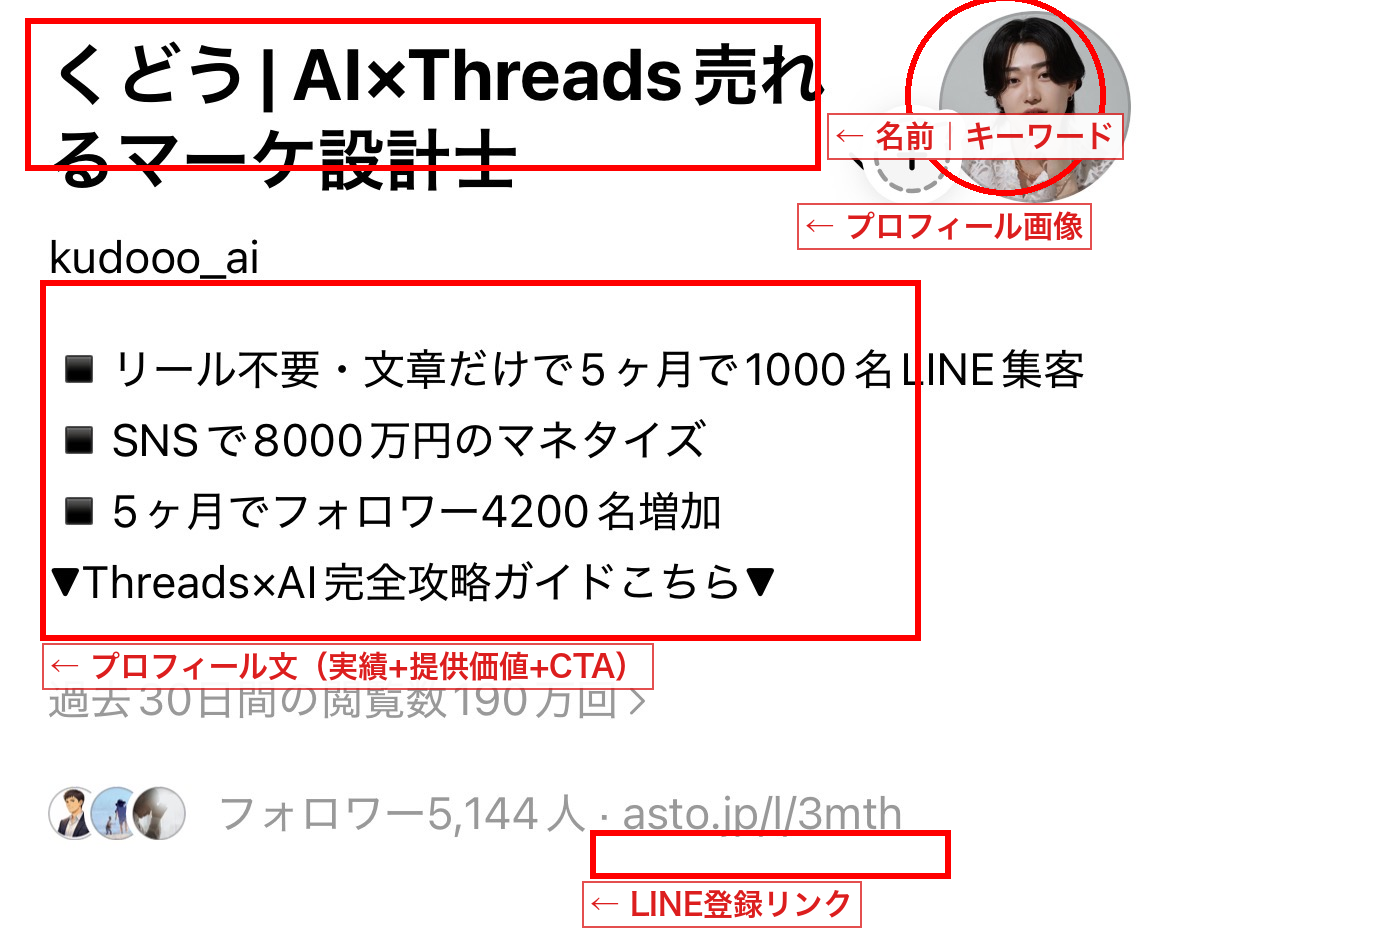
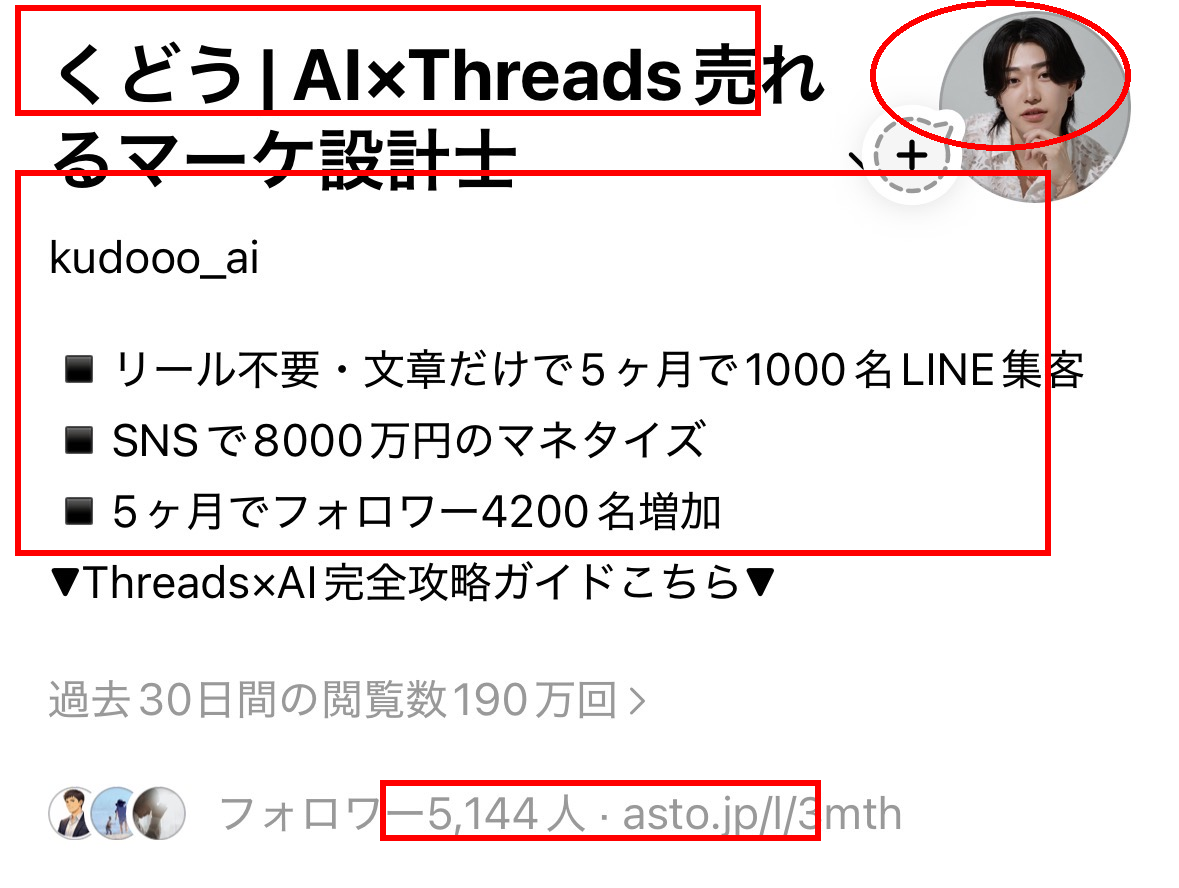
intro-TOCの被り解消・CTA特典画像削除・プロフィール画像削除
- introセクションpadding-bottom増加+特別なご案内にmargin-bottom追加
- SP用TOCのnegative margin(-24px)を正の値(16px)に変更で被り解消
- LESSON 8/9のCTA特典画像(benefit-prompt/product)を削除
- プロフィール章のアノテーション画像を削除

Changed region(s): [[0.0, 0.0, 0.9771, 1.0], [0.5496, 0.4561, 0.6107, 0.5169]]

diff --git a/threads-guide-2/index.html b/threads-guide-2/index.html
@@ -28,7 +28,7 @@ body{font-family:"Hiragino Kaku Gothic ProN","Hiragino Sans","Noto Sans JP",sans
 .hero-sub strong{color:#fff}
 
 /* ===== Intro (white) ===== */
-.intro{background:#fff;padding:28px 0 20px;text-align:left}
+.intro{background:#fff;padding:28px 0 40px;text-align:left}
 .intro-text{font-size:15px;color:#475569;margin-bottom:16px;line-height:1.8}
 .intro-text strong{color:#1e293b}
 .intro .hero-stats{display:flex;justify-content:center;gap:24px;margin:20px 0;flex-wrap:wrap}
@@ -242,7 +242,7 @@ body{font-family:"Hiragino Kaku Gothic ProN","Hiragino Sans","Noto Sans JP",sans
   .hero-stats{gap:16px}
   .hero-stat .num{font-size:26px}
   .intro .hero-stat .num{font-size:26px}
-  .toc{margin:-24px 12px 32px;padding:24px 20px}
+  .toc{margin:16px 12px 32px;padding:24px 20px}
   .lesson{padding:36px 0}
   .lesson-title{font-size:19px}
   .lesson h3{font-size:16px}
@@ -291,7 +291,7 @@ body{font-family:"Hiragino Kaku Gothic ProN","Hiragino Sans","Noto Sans JP",sans
     </div>
     <p class="intro-text" style="margin-top:24px">しかも、投稿の<strong>95%はAIで自動化</strong>。僕が1日にかける時間は、たった30分です。</p>
     <p class="intro-text">この教材には、僕が<strong>2,000件以上の投稿データを分析して作り上げた「型」</strong>を全部詰め込みました。<br>上から順番に読んで、そのまま実践してください。</p>
-    <div style="background:linear-gradient(135deg,#fefce8,#fef9c3);border:1px solid #eab308;border-radius:12px;margin-top:20px;padding:16px;font-size:14px;line-height:1.8;text-align:left">
+    <div style="background:linear-gradient(135deg,#fefce8,#fef9c3);border:1px solid #eab308;border-radius:12px;margin-top:20px;margin-bottom:8px;padding:16px;font-size:14px;line-height:1.8;text-align:left">
       <strong style="color:#92400e;font-size:15px">特別なご案内</strong><br>
       最後まで読んでいただいた方限定で、追加のボーナスコンテンツを用意しています。<strong>必ず最後まで読んでください。</strong>
     </div>
@@ -753,8 +753,6 @@ body{font-family:"Hiragino Kaku Gothic ProN","Hiragino Sans","Noto Sans JP",sans
   <p>行動を促さないと、人は動きません。「フォローしてね」「リンクから特典を受け取ってね」など、次のアクションを明示する。</p>
 
   <h3>プロフィールの各要素</h3>
-  <p>実際の僕のプロフィールで、各要素がどこに対応しているか見てください。</p>
-  <img src="assets/images/prof-annotated.png" alt="プロフィールの各要素" style="width:100%;border-radius:12px;border:1px solid #e2e8f0;margin:16px 0 24px" loading="lazy">
   <h4>名前</h4>
   <p>覚えやすく、何者かがわかる名前にする。</p>
   <p><strong>おすすめの形式：</strong>名前｜キーワード</p>
@@ -1151,13 +1149,7 @@ body{font-family:"Hiragino Kaku Gothic ProN","Hiragino Sans","Noto Sans JP",sans
     </ul>
   </div>
 
-  <div class="seminar-cta" style="margin-top:32px">
-    <p style="font-size:15px;font-weight:700;margin-bottom:8px">「自分でプロンプトを作れる気がしない…」</p>
-    <p style="font-size:13px;line-height:1.8;margin-bottom:16px;opacity:.9">僕が<strong>1投稿でフォロワー1,000人伸ばした実際のプロンプト</strong>を、セミナー参加者全員にそのまま公開しています。セミナー内で実演するので、その場で再現できます。</p>
-    <img src="assets/images/benefit-prompt.png" alt="1投稿でフォロワー1,000人伸ばしたプロンプト" style="width:100%;max-width:360px;margin:0 auto 16px;display:block;border-radius:12px;box-shadow:0 4px 16px rgba(0,0,0,.3)" loading="lazy">
-    <a href="https://launchkit-nine.vercel.app/seminar4/?utm_source=threads-guide&utm_content=cta-ai-prompt" class="cta-btn">このプロンプトを無料で受け取る</a>
-    <p class="cta-sub-note">参加費無料 / オンライン開催 / 90分で完結</p>
-  </div>
+
 </section>
 
 <!-- ========== LESSON 9 ========== -->
@@ -1236,13 +1228,7 @@ body{font-family:"Hiragino Kaku Gothic ProN","Hiragino Sans","Noto Sans JP",sans
     </ul>
   </div>
 
-  <div class="seminar-cta" style="margin-top:32px">
-    <p style="font-size:15px;font-weight:700;margin-bottom:8px">「導線はわかった。でも売る商品がない…」</p>
-    <p style="font-size:13px;line-height:1.8;margin-bottom:16px;opacity:.9">集客できても、売るものがなければ売上はゼロのまま。セミナー参加者には<strong>「高単価商品作成マニュアル」</strong>を無料でお渡ししています。</p>
-    <img src="assets/images/benefit-product.png" alt="高単価商品作成マニュアル" style="width:100%;max-width:280px;margin:0 auto 16px;display:block;border-radius:12px;box-shadow:0 4px 16px rgba(0,0,0,.3)" loading="lazy">
-    <a href="https://launchkit-nine.vercel.app/seminar4/?utm_source=threads-guide&utm_content=cta-product" class="cta-btn">このマニュアルを無料で受け取る</a>
-    <p class="cta-sub-note">参加費無料 / オンライン開催 / 90分で完結</p>
-  </div>
+
 </section>
 
 <!-- ===== CTA 3 ===== -->
